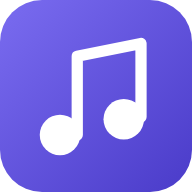
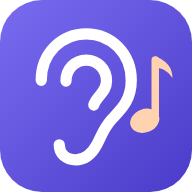
Klavier-Reiter, neues App-Symbol (Ohr mit Note), Ton nach dem Nachsingen repariert (1.4.0)
Klangpuffer werden pro AudioContext neu dekodiert; Puffer aus dem geschlossenen
Context blieben auf iOS stumm.

Claude-Session: https://claude.ai/code/session_01GuBNGBZPuAZYXEstfuK1jo

Changed region(s): [[0.1875, 0.125, 0.9062, 0.875]]

diff --git a/js/piano.js b/js/piano.js
@@ -1,0 +1,180 @@
+// Reiter "Klavier": spielbare Klaviatur mit Notenanzeige und Intervallbestimmung.
+import { noteOn, unlock, preload } from './audio.js';
+import { renderNotes } from './notation.js';
+
+const SHARP = ['C', 'Cis', 'D', 'Dis', 'E', 'F', 'Fis', 'G', 'Gis', 'A', 'Ais', 'H'];
+const FLAT = ['C', 'Des', 'D', 'Es', 'E', 'F', 'Ges', 'G', 'As', 'A', 'B', 'H'];
+const WHITE = [0, 2, 4, 5, 7, 9, 11];
+// Notenschrift: Stammton und Vorzeichen je Halbton
+const SPELL_SHARP = [[0, 0], [0, 1], [1, 0], [1, 1], [2, 0], [3, 0], [3, 1], [4, 0], [4, 1], [5, 0], [5, 1], [6, 0]];
+const SPELL_FLAT = [[0, 0], [1, -1], [1, 0], [2, -1], [2, 0], [3, 0], [4, -1], [4, 0], [5, -1], [5, 0], [6, -1], [6, 0]];
+const IV_NAMES = ['Prime', 'kleine Sekunde', 'große Sekunde', 'kleine Terz', 'große Terz', 'reine Quarte', 'Tritonus', 'reine Quinte', 'kleine Sexte', 'große Sexte', 'kleine Septime', 'große Septime', 'Oktave'];
+const LO = 36; // C2
+const HI = 96; // C7
+const PREF = 'gbt-piano-v1';
+
+function prefs() {
+  try { return { names: true, flat: false, ...(JSON.parse(localStorage.getItem(PREF)) || {}) }; } catch (e) { return { names: true, flat: false }; }
+}
+function savePrefs(p) {
+  try { localStorage.setItem(PREF, JSON.stringify(p)); } catch (e) { /* ignorieren */ }
+}
+
+function noteName(m, flat) {
+  return (flat ? FLAT : SHARP)[m % 12] + (Math.floor(m / 12) - 1);
+}
+function noteObj(m, flat) {
+  const [l, a] = (flat ? SPELL_FLAT : SPELL_SHARP)[m % 12];
+  return { l, a, o: Math.floor(m / 12) - 1 };
+}
+function intervalName(semis) {
+  const oct = Math.floor(semis / 12);
+  const rest = semis % 12;
+  if (semis === 0) return 'Prime';
+  if (rest === 0) return oct === 1 ? 'Oktave' : `${oct} Oktaven`;
+  return oct ? `${IV_NAMES[rest]} + ${oct === 1 ? 'Oktave' : `${oct} Oktaven`}` : IV_NAMES[rest];
+}
+
+export function renderPiano($app, { h, icon }) {
+  const p = prefs();
+  $app.innerHTML = h`
+    <header class="page-head"><h1>Klavier</h1></header>
+    <section class="card piano-info">
+      <div class="staff piano-staff"></div>
+      <div class="piano-read">
+        <b id="pn-notes">Tippe auf eine Taste</b>
+        <span class="muted" id="pn-iv">&nbsp;</span>
+      </div>
+    </section>
+    <div class="piano-tools">
+      <button class="btn ghost small-btn" id="oct-down" aria-label="Tiefer">${icon('chevron', 'flip')}</button>
+      <button class="chip ${p.names ? 'on' : ''}" id="t-names">Namen</button>
+      <div class="seg">
+        <button class="${p.flat ? '' : 'on'}" id="t-sharp">♯</button>
+        <button class="${p.flat ? 'on' : ''}" id="t-flat">♭</button>
+      </div>
+      <button class="btn ghost small-btn" id="oct-up" aria-label="Höher">${icon('chevron')}</button>
+    </div>
+    <div class="piano-wrap"><div class="piano ${p.names ? 'names' : ''}" id="piano"></div></div>
+    <p class="muted small center">Mehrere Finger gleichzeitig spielen Akkorde. Wischen spielt ein Glissando.</p>
+  `;
+  const $piano = $app.querySelector('#piano');
+  const $wrap = $app.querySelector('.piano-wrap');
+  const $staff = $app.querySelector('.piano-staff');
+  const $notes = $app.querySelector('#pn-notes');
+  const $iv = $app.querySelector('#pn-iv');
+
+  // Tasten bauen
+  let whiteIdx = 0;
+  const keys = [];
+  for (let m = LO; m <= HI; m++) {
+    const pc = m % 12;
+    const isWhite = WHITE.includes(pc);
+    const el = document.createElement('div');
+    el.className = `key ${isWhite ? 'white' : 'black'}`;
+    el.dataset.m = m;
+    if (isWhite) {
+      el.style.left = `calc(var(--kw) * ${whiteIdx})`;
+      whiteIdx++;
+    } else {
+      el.style.left = `calc(var(--kw) * ${whiteIdx} - var(--bw) / 2)`;
+    }
+    el.innerHTML = `<span>${isWhite ? (pc === 0 ? `C${Math.floor(m / 12) - 1}` : SHARP[pc]) : ''}</span>`;
+    keys.push(el);
+    $piano.appendChild(el);
+  }
+  $piano.style.width = `calc(var(--kw) * ${whiteIdx})`;
+
+  const held = new Map(); // pointerId -> { m, stop }
+  const recent = []; // zuletzt gespielte Töne
+  let preloaded = false;
+
+  function show() {
+    const now = [...new Set([...held.values()].map((x) => x.m))].sort((a, b) => a - b);
+    const shown = now.length ? now : recent.slice(-1);
+    const flat = p.flat;
+    if (!shown.length) return;
+    $notes.textContent = shown.map((m) => noteName(m, flat)).join(' – ');
+    let iv = '';
+    if (now.length >= 2) iv = intervalName(now[now.length - 1] - now[0]) + (now.length > 2 ? ` (äußere Töne, ${now.length} Töne)` : '');
+    else if (recent.length >= 2) {
+      const a = recent[recent.length - 2], b = recent[recent.length - 1];
+      iv = `${intervalName(Math.abs(b - a))} ${b > a ? 'aufwärts' : b < a ? 'abwärts' : ''} zum vorigen Ton`;
+    }
+    $iv.textContent = iv || ' ';
+    const groups = now.length >= 2 ? [now.map((m) => noteObj(m, flat))] : recent.slice(-2).map((m) => [noteObj(m, flat)]);
+    renderNotes($staff, groups, { width: Math.min($staff.clientWidth || 300, 360), height: 105 });
+  }
+
+  async function press(id, m) {
+    const k = keys[m - LO];
+    k.classList.add('down');
+    const entry = { m, stop: null };
+    held.set(id, entry);
+    recent.push(m);
+    if (recent.length > 8) recent.shift();
+    show();
+    entry.stop = await noteOn(m);
+    if (!held.has(id) || held.get(id) !== entry) entry.stop();
+  }
+  function release(id) {
+    const e = held.get(id);
+    if (!e) return;
+    held.delete(id);
+    if (![...held.values()].some((x) => x.m === e.m)) keys[e.m - LO].classList.remove('down');
+    if (e.stop) e.stop();
+    show();
+  }
+  function keyAt(x, y) {
+    const el = document.elementFromPoint(x, y);
+    const k = el && el.closest('.key');
+    return k ? Number(k.dataset.m) : null;
+  }
+
+  $piano.addEventListener('pointerdown', async (ev) => {
+    ev.preventDefault();
+    if (!preloaded) { preloaded = true; unlock(); }
+    const m = keyAt(ev.clientX, ev.clientY);
+    if (m == null) return;
+    try { $piano.setPointerCapture(ev.pointerId); } catch (e) { /* ignorieren */ }
+    press(ev.pointerId, m);
+  });
+  $piano.addEventListener('pointermove', (ev) => {
+    const e = held.get(ev.pointerId);
+    if (!e) return;
+    const m = keyAt(ev.clientX, ev.clientY);
+    if (m != null && m !== e.m) { release(ev.pointerId); press(ev.pointerId, m); }
+  });
+  for (const t of ['pointerup', 'pointercancel', 'lostpointercapture']) $piano.addEventListener(t, (ev) => release(ev.pointerId));
+  $piano.addEventListener('contextmenu', (e) => e.preventDefault());
+
+  // Werkzeuge
+  const scrollOct = (dir) => {
+    const kw = $piano.querySelector('.key.white').getBoundingClientRect().width;
+    $wrap.scrollBy({ left: dir * kw * 7, behavior: 'smooth' });
+  };
+  $app.querySelector('#oct-down').addEventListener('click', () => scrollOct(-1));
+  $app.querySelector('#oct-up').addEventListener('click', () => scrollOct(1));
+  $app.querySelector('#t-names').addEventListener('click', (e) => {
+    p.names = !p.names; savePrefs(p);
+    e.currentTarget.classList.toggle('on', p.names);
+    $piano.classList.toggle('names', p.names);
+  });
+  const setFlat = (f) => {
+    p.flat = f; savePrefs(p);
+    $app.querySelector('#t-flat').classList.toggle('on', f);
+    $app.querySelector('#t-sharp').classList.toggle('on', !f);
+    show();
+  };
+  $app.querySelector('#t-sharp').addEventListener('click', () => setFlat(false));
+  $app.querySelector('#t-flat').addEventListener('click', () => setFlat(true));
+
+  // Startansicht: ab C3 (bei tiefer Stimmlage sinnvoll), bzw. so, dass C4 sichtbar ist
+  requestAnimationFrame(() => {
+    const c3 = keys[48 - LO];
+    $wrap.scrollLeft = c3.offsetLeft - 4;
+  });
+  renderNotes($staff, [], { width: Math.min($staff.clientWidth || 300, 360), height: 105 });
+  preload([48, 60, 72]);
+  return () => { for (const id of [...held.keys()]) release(id); };
+}

diff --git a/js/audio.js b/js/audio.js
@@ -53,6 +53,9 @@ export async function rebuildContext(type, rate = 0) {
   ctx = null;
   master = null;
   active.clear();
+  buffers.clear();
+  loading.clear();
+  bufCtx = null;
   if (old) {
     try { await old.close(); } catch (e) { /* ignorieren */ }
   }
@@ -89,25 +92,46 @@ function nearestSample(midi) {
   return best;
 }
 
+// Die Rohdaten bleiben erhalten; dekodiert wird pro AudioContext neu.
+// (iOS spielt Puffer aus einem geschlossenen Context teils stumm ab, z. B. nach einer Nachsingen-Aufgabe.)
+const raw = new Map(); // midi -> Promise<ArrayBuffer>
+let bufCtx = null;
+
+function fetchRaw(s) {
+  if (!raw.has(s.midi)) {
+    const p = fetch(s.file).then((r) => {
+      if (!r.ok) throw new Error('Laden fehlgeschlagen');
+      return r.arrayBuffer();
+    });
+    p.catch(() => raw.delete(s.midi));
+    raw.set(s.midi, p);
+  }
+  return raw.get(s.midi);
+}
+
 async function loadSample(s) {
+  const c = getContext();
+  if (bufCtx !== c) {
+    buffers.clear();
+    loading.clear();
+    bufCtx = c;
+  }
   if (buffers.has(s.midi)) return buffers.get(s.midi);
   if (loading.has(s.midi)) return loading.get(s.midi);
   const p = (async () => {
-    const res = await fetch(s.file);
-    const data = await res.arrayBuffer();
-    const c = getContext();
+    const data = (await fetchRaw(s)).slice(0);
     const buf = await new Promise((resolve, reject) => {
       const r = c.decodeAudioData(data, resolve, reject);
       if (r && r.then) r.then(resolve, reject);
     });
-    buffers.set(s.midi, buf);
+    if (bufCtx === c) buffers.set(s.midi, buf);
     return buf;
   })();
   loading.set(s.midi, p);
   try {
     return await p;
   } finally {
-    loading.delete(s.midi);
+    if (loading.get(s.midi) === p) loading.delete(s.midi);
   }
 }
 
@@ -116,9 +140,10 @@ export async function preload(midis) {
   await Promise.all([...set].map((s) => loadSample(s).catch(() => null)));
 }
 
-// Alle Samples im Hintergrund laden (für Offline-Nutzung landen sie im Cache des Service Workers)
+// Alle Klänge im Hintergrund holen (für die Offline-Nutzung landen sie im Cache des Service Workers)
 export function preloadAll() {
-  return Promise.all(SAMPLE_NOTES.filter((s) => s.midi >= 36 && s.midi <= 96).map((s) => loadSample(s).catch(() => null)));
+  // Nur die Rohdaten holen (landen im Offline-Cache); dekodiert wird bei Bedarf
+  return Promise.all(SAMPLE_NOTES.filter((s) => s.midi >= 36 && s.midi <= 96).map((s) => fetchRaw(s).catch(() => null)));
 }
 
 export function stopAll() {
@@ -188,4 +213,30 @@ export function blip(ok) {
   o.connect(g).connect(c.destination);
   o.start(t);
   o.stop(t + 0.35);
+}
+
+// Für die Klaviatur: Ton anschlagen und beim Loslassen ausklingen lassen
+export async function noteOn(midi, vel = 0.85) {
+  const c = await ensureRunning();
+  const s = nearestSample(midi);
+  const buf = await loadSample(s);
+  const src = c.createBufferSource();
+  src.buffer = buf;
+  src.playbackRate.value = Math.pow(2, (midi - s.midi) / 12);
+  const g = c.createGain();
+  g.gain.setValueAtTime(vel, c.currentTime);
+  src.connect(g).connect(master);
+  src.start();
+  const voice = { src, gain: g };
+  active.add(voice);
+  src.onended = () => active.delete(voice);
+  return () => {
+    try {
+      const t = c.currentTime;
+      g.gain.cancelScheduledValues(t);
+      g.gain.setValueAtTime(g.gain.value, t);
+      g.gain.setTargetAtTime(0, t, 0.15);
+      src.stop(t + 1.2);
+    } catch (e) { /* ignorieren */ }
+  };
 }

diff --git a/css/style.css b/css/style.css
@@ -354,6 +354,33 @@ body.in-session .app { padding-bottom: calc(env(safe-area-inset-bottom) + 24px);
 .row-btns .btn { flex: 1 1 160px; }
 .btn.file { font-weight: 650; font-size: 16px; display: inline-flex; flex-direction: row; }
 
+/* Klavier */
+.piano-info { display: flex; flex-direction: column; align-items: center; gap: 4px; padding: 12px 14px; }
+.piano-staff { max-width: 360px; }
+.piano-read { text-align: center; min-height: 2.8em; }
+.piano-info .staff { margin-top: 0; }
+.piano-read b { display: block; font-size: 20px; }
+.piano-tools { display: flex; align-items: center; justify-content: space-between; gap: 10px; }
+.piano-tools .seg { margin: 0; flex: 0 1 120px; }
+.piano-tools .chip { margin-left: auto; }
+.piano-tools .seg + .btn { margin-left: 0; }
+.small-btn { min-height: 40px; padding: 0 12px; }
+.ic.flip { transform: rotate(180deg); }
+.piano-wrap {
+  overflow-x: auto; overflow-y: hidden; -webkit-overflow-scrolling: touch; scrollbar-width: thin;
+  margin: 0 calc(-1 * max(16px, env(safe-area-inset-left))); padding: 0 12px 8px;
+}
+.piano { --kw: 46px; --bw: 30px; position: relative; height: 185px; touch-action: none; user-select: none; -webkit-user-select: none; -webkit-touch-callout: none; }
+.key { position: absolute; top: 0; box-sizing: border-box; display: flex; align-items: flex-end; justify-content: center; }
+.key.white { width: var(--kw); height: 100%; background: #fff; border: 1px solid #c9c6d8; border-radius: 0 0 9px 9px; z-index: 1; box-shadow: inset 0 -6px 0 #ecebf3; }
+.key.black { width: var(--bw); height: 62%; background: linear-gradient(#2a283a, #14131c); border-radius: 0 0 6px 6px; z-index: 2; box-shadow: 0 3px 4px rgba(0,0,0,.35); }
+.key span { font-size: 12px; font-weight: 700; color: #8a87a0; margin-bottom: 10px; display: none; pointer-events: none; }
+.piano.names .key.white span { display: block; }
+.key.white.down { background: var(--accent-soft); box-shadow: inset 0 -2px 0 var(--accent); }
+.key.black.down { background: var(--accent); }
+.center { text-align: center; }
+@media (min-width: 700px) { .piano { --kw: 56px; --bw: 36px; height: 300px; } }
+
 /* Kalibrierung */
 .calib { display: flex; flex-direction: column; gap: 8px; padding-top: 12px; border-top: 1px solid var(--line); }
 

diff --git a/js/app.js b/js/app.js
@@ -1,5 +1,6 @@
 import * as store from './store.js';
 import * as sync from './sync.js';
+import { renderPiano } from './piano.js';
 import { MODULES, moduleById } from './modules/index.js';
 import { renderNotes } from './notation.js';
 import { unlock, blip, stopAll, preloadAll, playMelodic } from './audio.js';
@@ -19,6 +20,7 @@ const esc = (s) => String(s).replace(/[&<>"']/g, (c) => ({ '&': '&amp;', '<': '&
 
 const ICONS = {
   home: '<path d="M3 11.5 12 4l9 7.5"/><path d="M5 10v10h5v-6h4v6h5V10"/>',
+  piano: '<rect x="3" y="4" width="18" height="16" rx="2"/><path d="M8 4v16M13 4v16M18 4v16" opacity=".35"/><path d="M8 4v9M13 4v9M18 4v9" stroke-width="3.5"/>',
   practice: '<path d="M9 18V5l12-2v13"/><circle cx="6" cy="18" r="3"/><circle cx="18" cy="16" r="3"/>',
   stats: '<path d="M4 20V10"/><path d="M10 20V4"/><path d="M16 20v-7"/><path d="M22 20H2"/>',
   settings: '<circle cx="12" cy="12" r="3"/><path d="M19.4 15a1.7 1.7 0 0 0 .3 1.8l.1.1a2 2 0 1 1-2.8 2.8l-.1-.1a1.7 1.7 0 0 0-1.8-.3 1.7 1.7 0 0 0-1 1.5V21a2 2 0 1 1-4 0v-.1a1.7 1.7 0 0 0-1.1-1.5 1.7 1.7 0 0 0-1.8.3l-.1.1a2 2 0 1 1-2.8-2.8l.1-.1a1.7 1.7 0 0 0 .3-1.8 1.7 1.7 0 0 0-1.5-1H3a2 2 0 1 1 0-4h.1a1.7 1.7 0 0 0 1.5-1.1 1.7 1.7 0 0 0-.3-1.8l-.1-.1a2 2 0 1 1 2.8-2.8l.1.1a1.7 1.7 0 0 0 1.8.3H9a1.7 1.7 0 0 0 1-1.5V3a2 2 0 1 1 4 0v.1a1.7 1.7 0 0 0 1 1.5 1.7 1.7 0 0 0 1.8-.3l.1-.1a2 2 0 1 1 2.8 2.8l-.1.1a1.7 1.7 0 0 0-.3 1.8V9a1.7 1.7 0 0 0 1.5 1H21a2 2 0 1 1 0 4h-.1a1.7 1.7 0 0 0-1.5 1z"/>',
@@ -62,6 +64,7 @@ function route() {
   if (view === 'ueben') return renderPractice();
   if (view === 'bereich') return renderModule(args[0]);
   if (view === 'runde') return renderSession(args[0], args[1], args[2]);
+  if (view === 'klavier') { cleanup = renderPiano($app, { h, icon }); return; }
   if (view === 'statistik') return renderStats();
   if (view === 'einstellungen') return renderSettings();
   return renderToday();
@@ -891,6 +894,7 @@ function toast(msg) {
 $tabs.innerHTML = [
   ['heute', 'home', 'Heute'],
   ['ueben', 'practice', 'Üben'],
+  ['klavier', 'piano', 'Klavier'],
   ['statistik', 'stats', 'Statistik'],
   ['einstellungen', 'settings', 'Einstellungen'],
 ].map(([v, ic, l]) => `<a href="#/${v}" data-view="${v}">${icon(ic)}<span>${l}</span></a>`).join('');

diff --git a/sw.js b/sw.js
@@ -1,8 +1,8 @@
 // Service Worker: speichert die App für die Offline-Nutzung.
-const VERSION = 'gbt-v1.3.3';
+const VERSION = 'gbt-v1.4.0';
 const CORE = [
   './', 'index.html', 'manifest.webmanifest', 'css/style.css',
-  'js/app.js', 'js/store.js', 'js/sync.js', 'js/theory.js', 'js/audio.js', 'js/pitch.js', 'js/notation.js',
+  'js/app.js', 'js/store.js', 'js/sync.js', 'js/piano.js', 'js/theory.js', 'js/audio.js', 'js/pitch.js', 'js/notation.js',
   'js/modules/index.js', 'js/modules/intervals.js', 'js/modules/chords.js', 'js/modules/scales.js',
   'vendor/vexflow.js', 'icons/icon.svg', 'icons/icon-192.png', 'icons/apple-touch-icon.png',
 ];

diff --git a/index.html b/index.html
@@ -15,7 +15,7 @@
   <link rel="icon" href="icons/icon.svg" type="image/svg+xml">
   <link rel="apple-touch-icon" href="icons/apple-touch-icon.png">
   <link rel="stylesheet" href="css/style.css">
-  <script>window.GBT_VERSION = '1.3.3';</script>
+  <script>window.GBT_VERSION = '1.4.0';</script>
   <script src="vendor/vexflow.js" defer></script>
   <script type="module" src="js/app.js"></script>
 </head>
